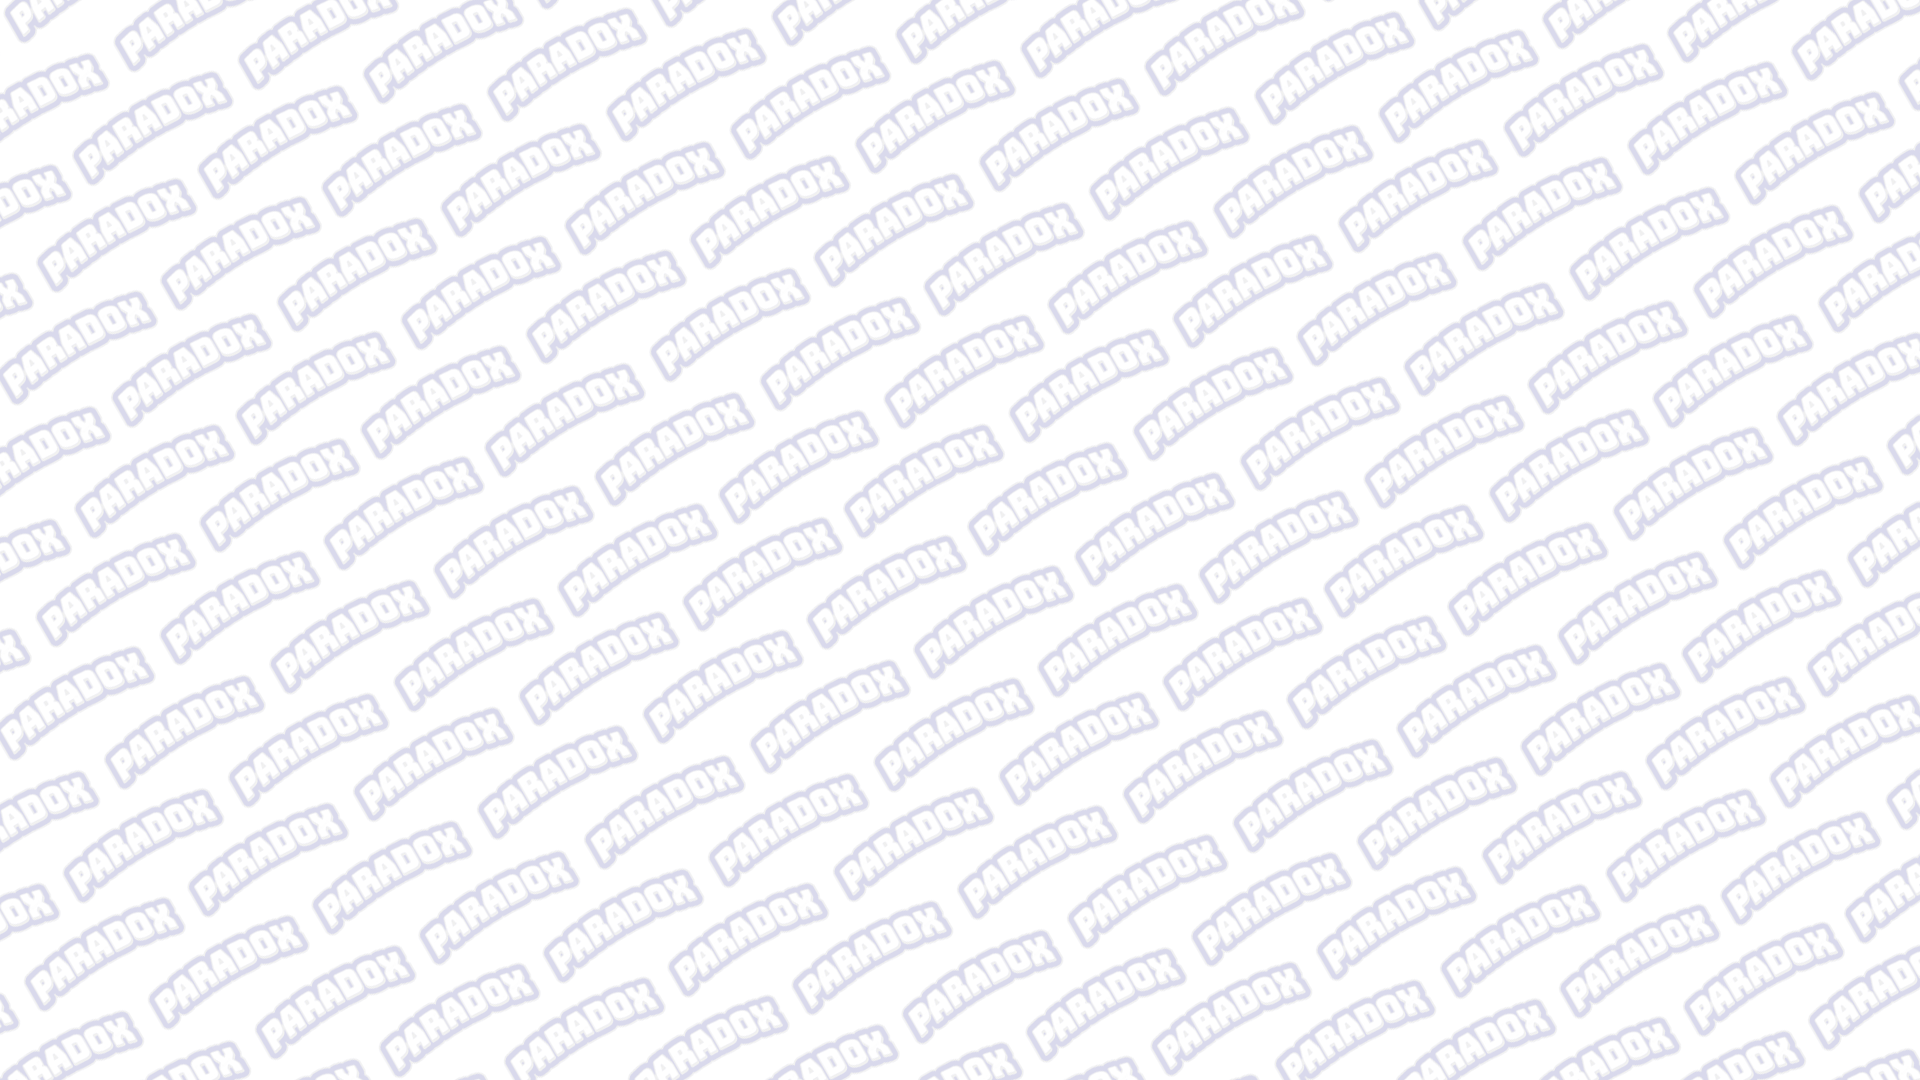
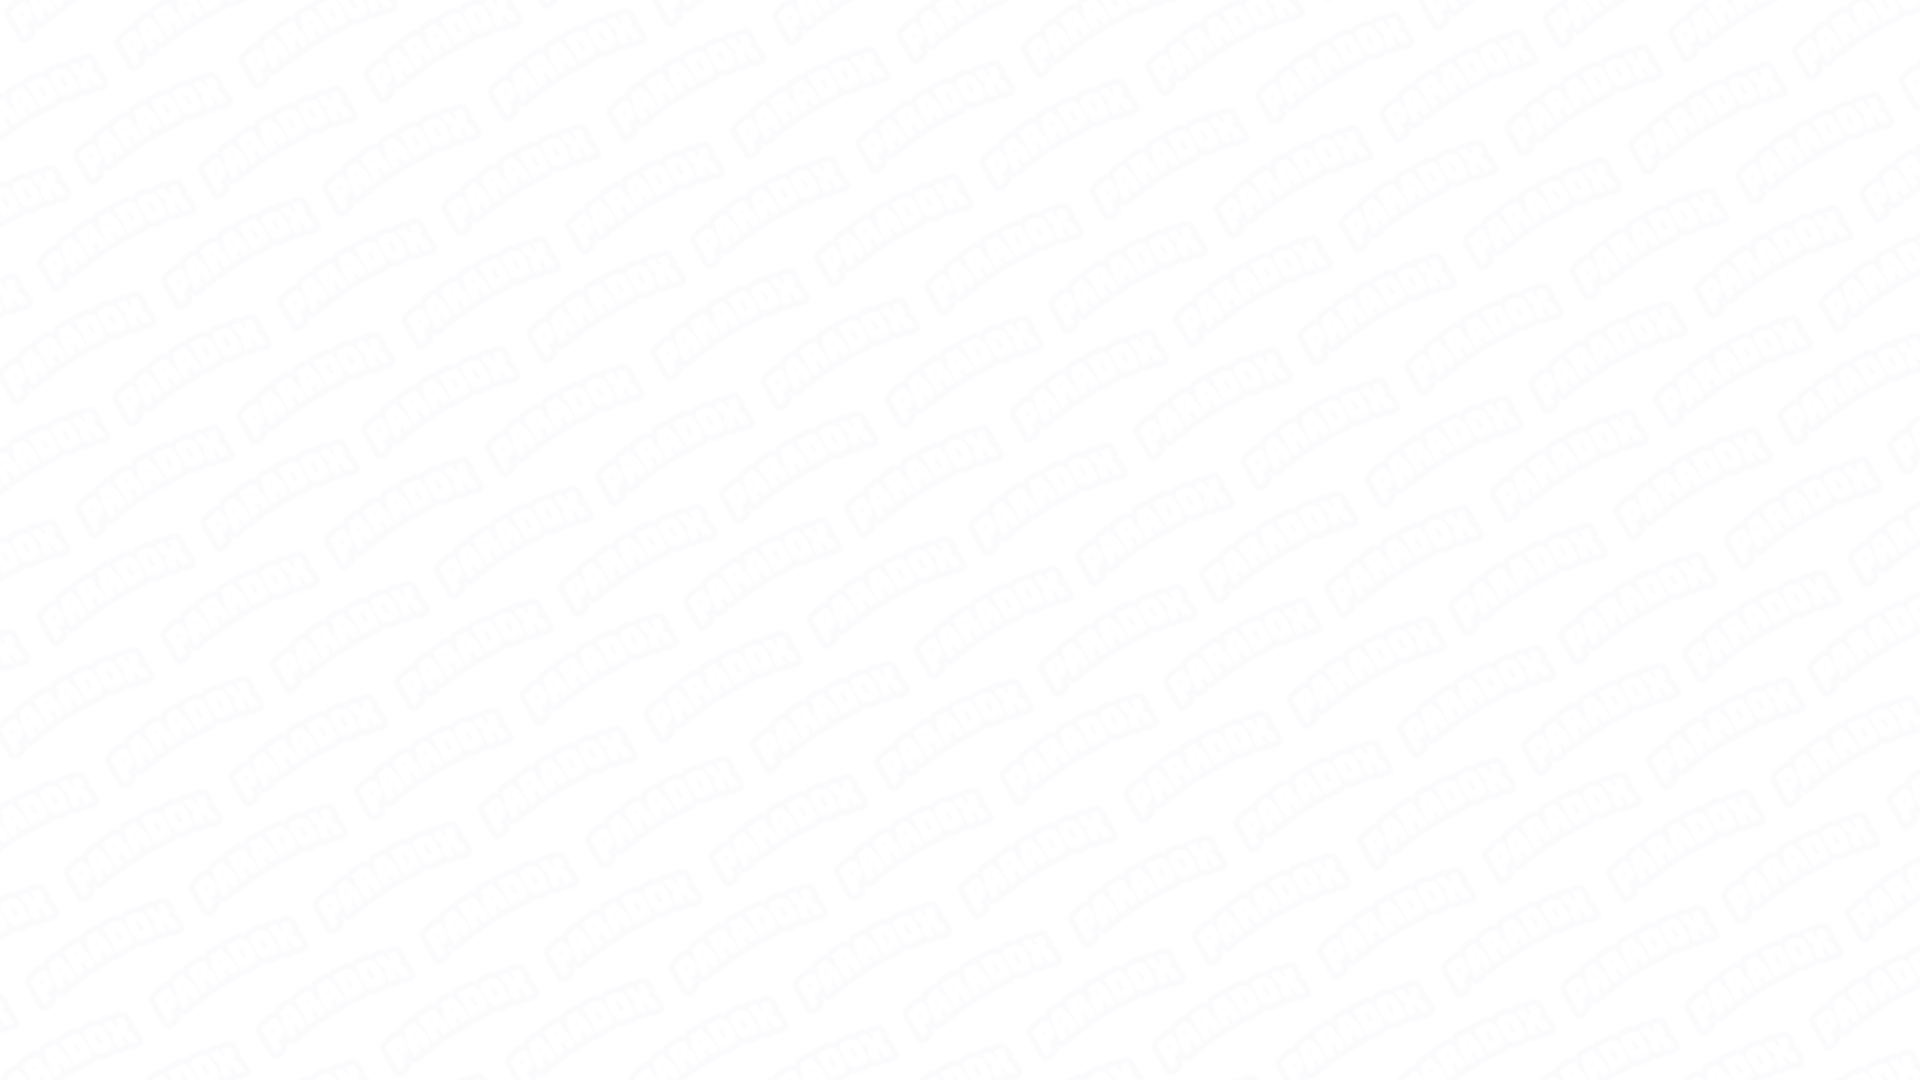
vista contacto finalizada menos navbar

Changed region(s): [[0.0, 0.0, 1.0, 1.0], [0.9688, 0.9778, 1.0, 1.0], [0.0, 0.0, 0.0312, 0.0306]]

diff --git a/view/css/style.css b/view/css/style.css
@@ -29,21 +29,7 @@ p {
     width: 100%;
   }
 
-@media only screen and (max-width : 992px) {
-  .parallax-container .section {
-    position: absolute;
-    top: 40%;
-  }
-  #index-banner .section {
-    top: 10%;
-  }
-}
 
-@media only screen and (max-width : 600px) {
-  #index-banner .section {
-    top: 0;
-  }
-}
 
 .icon-block {
   padding: 0 15px;
@@ -65,7 +51,7 @@ footer.page-footer {
 
 .background-contacto{
 	background-image: url("../img/bgContacto.png");
- 	background-size: cover; 	
+ 	
 }
 
 .grid-container{
@@ -77,9 +63,10 @@ footer.page-footer {
     'submit submit submit submit submit submit';
     border-radius:10px;
     margin:75px;
+    margin-top:0;
     padding:15px;
-background: rgb(14,73,208);
-background: linear-gradient(0deg, rgba(14,73,208,0) 0%, rgba(68,110,242,0.4542191876750701) 53%, rgba(52,104,231,0.7371323529411764) 100%);
+	background: rgb(13,71,161);
+	background: linear-gradient(0deg, rgba(13,71,161,0) 0%, rgba(13,71,161,0.3113620448179272) 53%, rgba(36,72,159,0.6194852941176471) 100%);
 }
 
 .grid-nombre{
@@ -120,11 +107,45 @@ background: linear-gradient(0deg, rgba(14,73,208,0) 0%, rgba(68,110,242,0.454219
 	}
 	
 textarea {
-height:100%;
+	height:84%;
+	border: none;
+	border-bottom: 1px solid lightgray;
+	resize: none;
 }
 .grid-submit{
 	grid-area: submit;
 	margin-top:50px;
 	text-align:center;
-	}
+}
+	
+.iconosrrss {
+	margin-right:20px;
+}
+	
+.tituloContacto{
+	font-family: 'Teko', sans-serif;
+	font-size:80px;
+}
 
+
+/* Media Query */
+
+@media only screen and (max-width : 992px) {
+  .parallax-container .section {
+    position: absolute;
+    top: 40%;
+  }
+  #index-banner .section {
+    top: 10%;
+  }
+}
+
+@media only screen and (max-width : 600px) {
+  #index-banner .section {
+    top: 0;
+  }
+  
+  .grid-container{	
+    margin:30px;
+  }
+}

diff --git a/view/contacto.php b/view/contacto.php
@@ -9,12 +9,15 @@
   <link href="https://fonts.googleapis.com/icon?family=Material+Icons" rel="stylesheet">
   <link href="css/materialize.css" type="text/css" rel="stylesheet" media="screen,projection"/>
   <link href="css/style.css" type="text/css" rel="stylesheet" media="screen,projection"/>
+  <script src="https://kit.fontawesome.com/661afcc94b.js"></script>
+  <link href="https://fonts.googleapis.com/css?family=Teko:300&display=swap" rel="stylesheet">
+  <link rel="icon" type="image/png" href="img/paradox.png">
 </head>
 <body>
 <div class="background-contacto">
   <nav class="blue darken-4" role="navigation">
     <div class="nav-wrapper container">
-      <a id="logo-container" href="#" class="brand-logo"><img src="img/paradox.png" width="13%"></a>
+      <a id="logo-container" href="../index.php" class="brand-logo"><img src="img/paradox.png" width="130px"></a>
       <ul class="right hide-on-med-and-down">
         <li><a href="#" class="white-text">Navbar Link</a></li>
       </ul>
@@ -25,7 +28,7 @@
       <a href="#" data-target="nav-mobile" class="sidenav-trigger"><i class="material-icons">menu</i></a>
     </div>
   </nav>
-  <h1 class="center-align">FORMULARIO DE CONTACTO</h1>
+  <h1 class="center-align tituloContacto">FORMULARIO DE CONTACTO</h1>
   <div class="grid-container">
     <div class="grid-nombre">      
 		<strong>Nombre: </strong><input type="text" name="fnombre">
@@ -56,34 +59,31 @@
     <div class="container">
       <div class="row">
         <div class="col l6 s12">
-          <h5 class="white-text">Company Bio</h5>
-          <p class="grey-text text-lighten-4">We are a team of college students working on this project like it's our full time job. Any amount would help support and continue development on this project and is greatly appreciated.</p>
+          <h5 class="white-text">Sobre Nosotros</h5>
+          <p class="grey-text text-lighten-4">
+          	Paradox es un club de deportes electronicos de alta categoria, nos dedicamos a gestionar equipos en diferentes plataformas y videojuegos.
+          	Forjamos nuestras victorias.
+          
+          
+          </p>
 
 
         </div>
-        <div class="col l3 s12">
-          <h5 class="white-text">Settings</h5>
+        <div class="col l6 s12">
+          <h5 class="white-text">RRSS</h5>
           <ul>
-            <li><a class="white-text" href="#!">Link 1</a></li>
-            <li><a class="white-text" href="#!">Link 2</a></li>
-            <li><a class="white-text" href="#!">Link 3</a></li>
-            <li><a class="white-text" href="#!">Link 4</a></li>
-          </ul>
-        </div>
-        <div class="col l3 s12">
-          <h5 class="white-text">Connect</h5>
-          <ul>
-            <li><a class="white-text" href="#!">Link 1</a></li>
-            <li><a class="white-text" href="#!">Link 2</a></li>
-            <li><a class="white-text" href="#!">Link 3</a></li>
-            <li><a class="white-text" href="#!">Link 4</a></li>
+            <a class="white-text iconosrrss" href="https://www.instagram.com/"><i class="fab fa-instagram fa-2x"></i></a>
+            <a class="white-text iconosrrss" href="https://www.facebook.es/"><i class="fab fa-facebook-square fa-2x"></i></a>
+            <a class="white-text iconosrrss" href="https://www.twitter.com/"><i class="fab fa-twitter-square fa-2x"></i></a>
+            <a class="white-text iconosrrss" href="https://www.youtube.es/"><i class="fab fa-youtube-square fa-2x"></i></a>
+            <a class="white-text iconosrrss" href="https://twitch.tv/"><i class="fab fa-twitch fa-2x"></i></a>
           </ul>
         </div>
       </div>
     </div>
-    <div class="footer-copyright">
-      <div class="container">
-      Made by <a class="brown-text text-lighten-3" href="http://materializecss.com">Materialize</a>
+    <div class="footer-copyright blue darken-4">
+      <div class="container center-align">
+      <i class="far fa-copyright"></i>Grupo 1 2019
       </div>
     </div>
   </footer>
